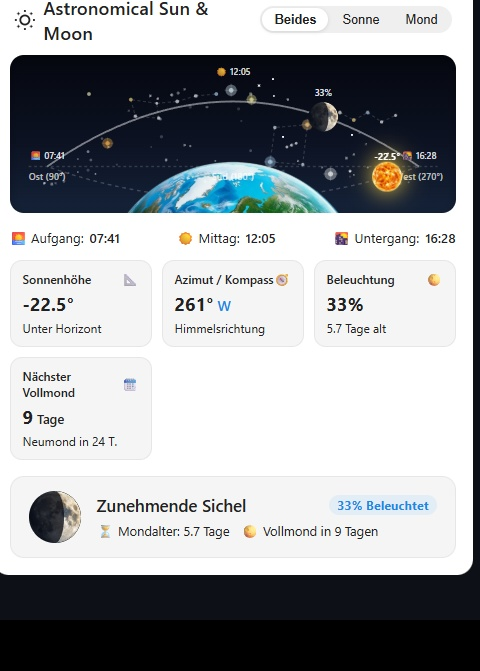
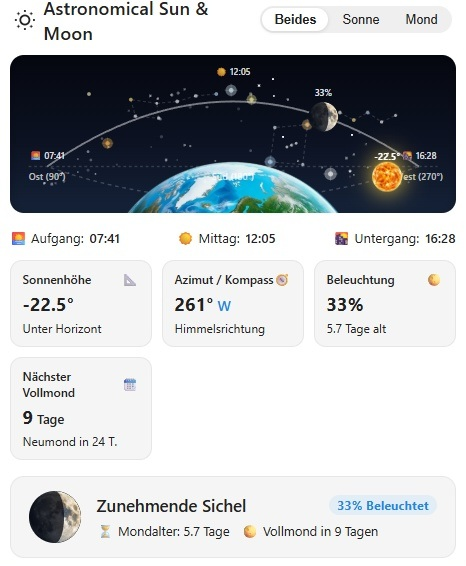
docs: update screenshots and night sky previews in README

diff --git a/README.md b/README.md
@@ -13,8 +13,22 @@
 
 A modern, highly tactile Lovelace Custom Card for Home Assistant that visualizes real-time celestial mechanics: the sun's trajectory across the sky dome, solar elevation & azimuth, day/golden-hour/dusk/night atmospheric transitions, and mathematically precise lunar phases with crater illumination.
 
+---
+
+## 📸 Screenshots
+
 <p align="center">
-  <img src="Screenshot/card-screenshot.jpg" width="460" alt="Astronomical Sun & Moon Card Preview">
+  <img src="https://raw.githubusercontent.com/adromir/ha-astronomical-sun-moon-card/main/Screenshot/card-screenshot.jpg" width="460" alt="Astronomical Sun & Moon Card Day Preview">
+</p>
+<p align="center">
+  <em>Daylight View: Sun trajectory across the sky dome with elevation, azimuth, and golden-hour transitions.</em>
+</p>
+
+<p align="center">
+  <img src="https://raw.githubusercontent.com/adromir/ha-astronomical-sun-moon-card/main/Screenshot/card-screenshot-night.png" width="460" alt="Astronomical Sun & Moon Card Night Sky Preview">
+</p>
+<p align="center">
+  <em>Night Sky View (v1.3.3): Shimmering starfield, major constellations, beacon planets, and interactive multilingual mouseover tooltips.</em>
 </p>
 
 ---
